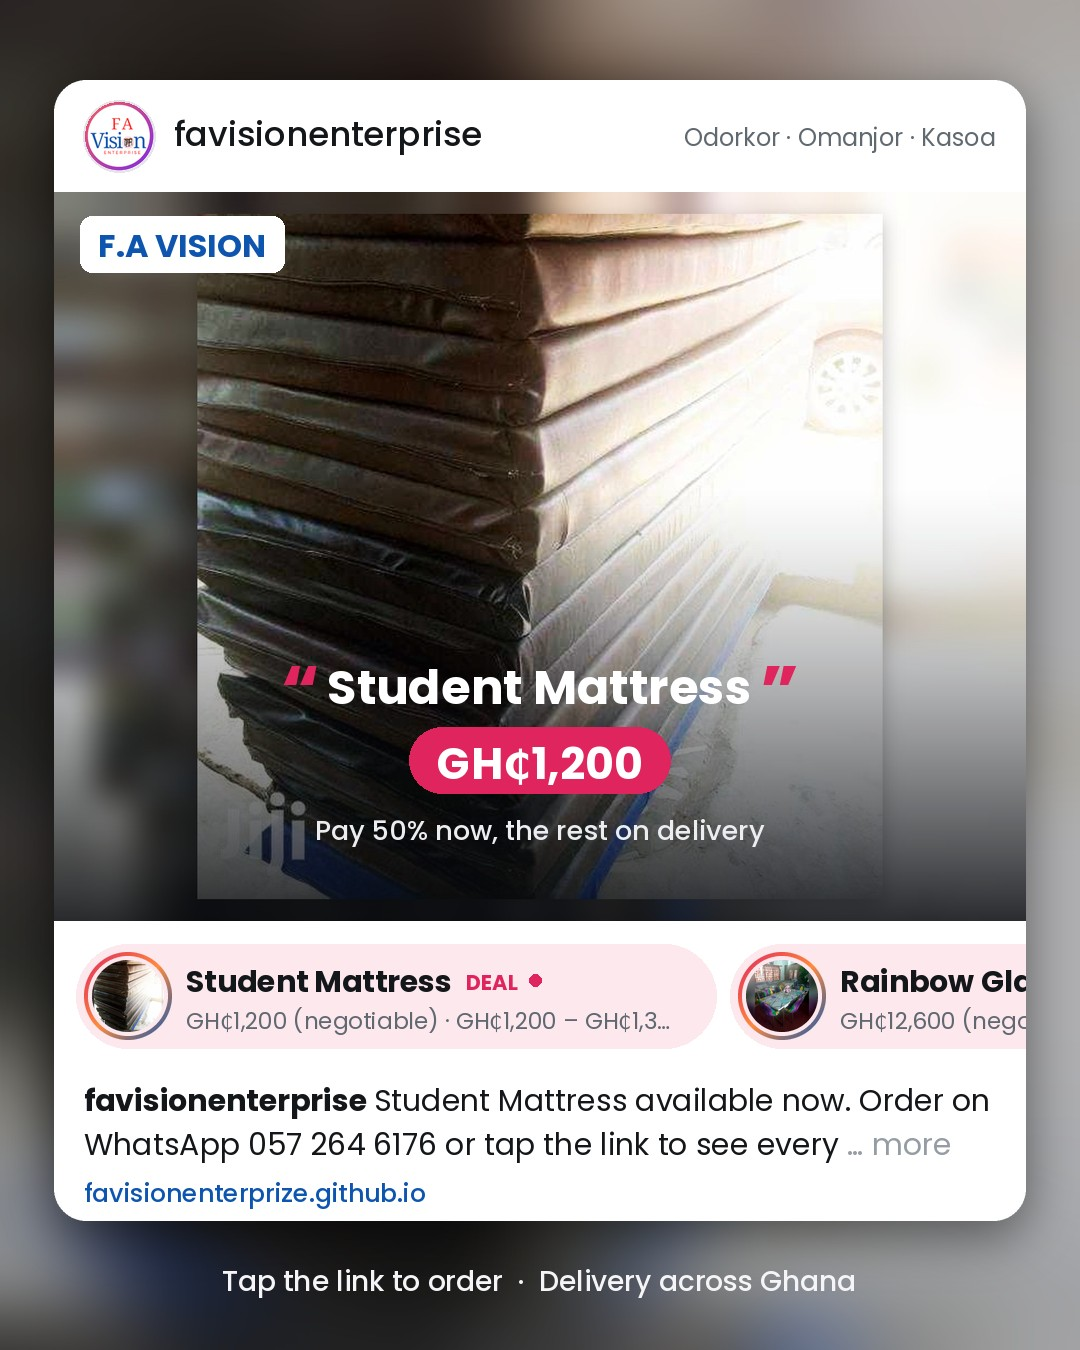
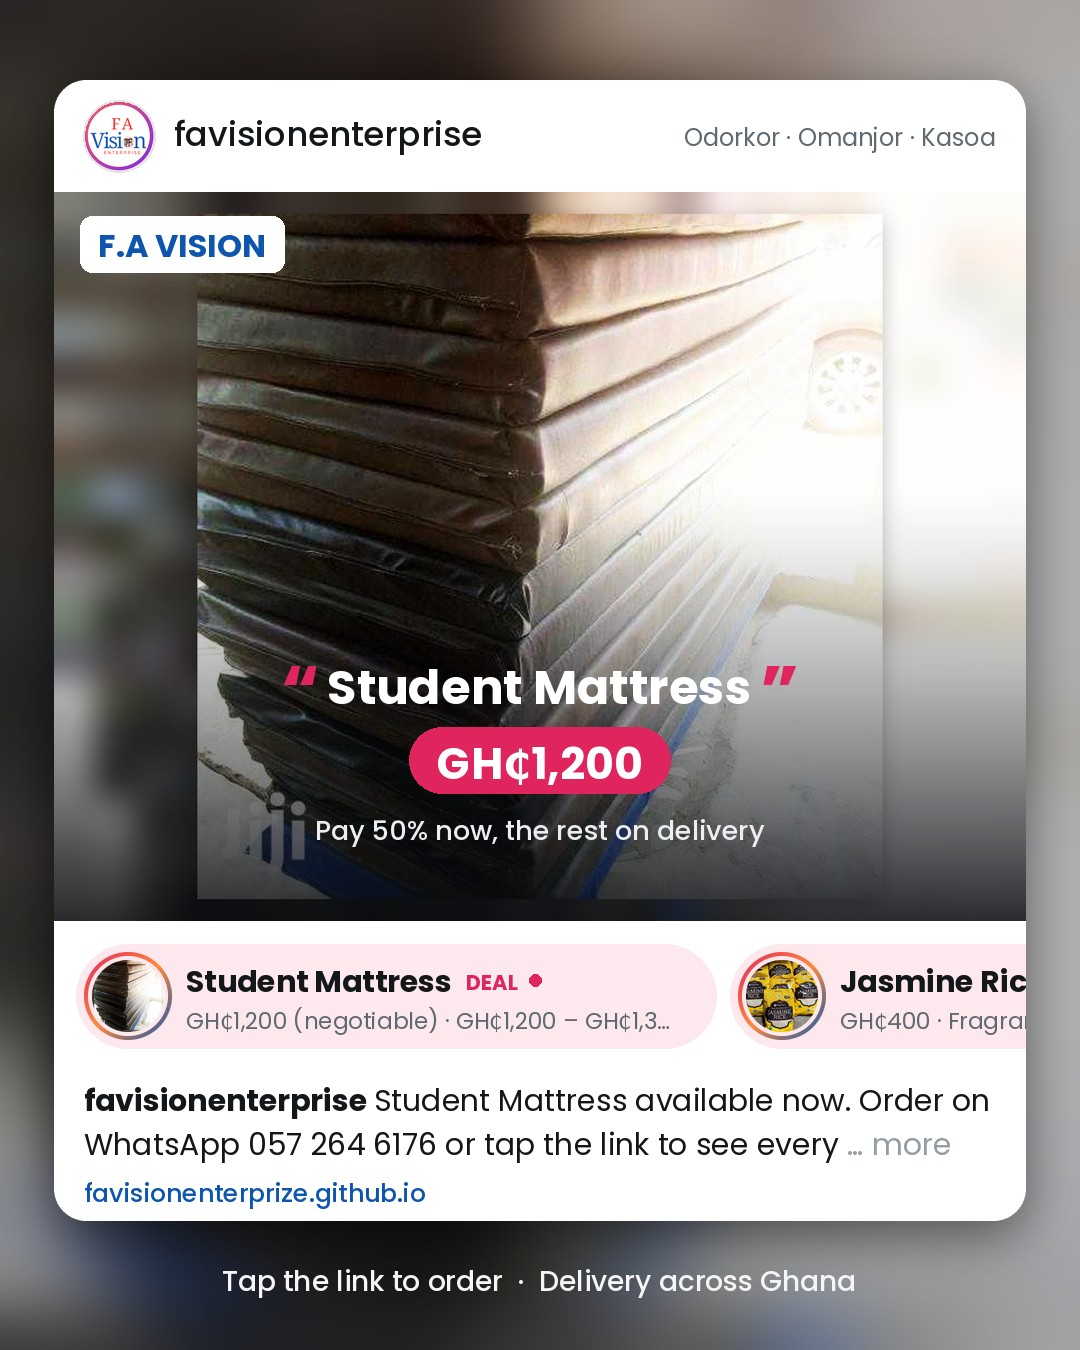
Rebuild ads and listing texts after a price or promo change

Changed region(s): [[0.6722, 0.6844, 0.9472, 0.7778]]

diff --git a/p/FAV-034.html b/p/FAV-034.html
@@ -8,15 +8,15 @@
 <meta property="og:title" content="Student Mattress · GH₵1,200">
 <meta property="og:description" content="GH₵1,200 – GH₵1,300 by size · Ideal for boarding schools &amp; hostels">
 <meta property="og:url" content="https://favisionenterprize.github.io/p/FAV-034.html">
-<meta property="og:image" content="https://favisionenterprize.github.io/assets/images/share/fav-034.jpg?v=4bab2631">
+<meta property="og:image" content="https://favisionenterprize.github.io/assets/images/share/fav-034.jpg?v=394ba472">
 <meta property="og:image:width" content="1080">
 <meta property="og:image:height" content="1350">
 <meta name="twitter:card" content="summary_large_image">
 <meta name="twitter:title" content="Student Mattress · GH₵1,200">
 <meta name="twitter:description" content="GH₵1,200 – GH₵1,300 by size · Ideal for boarding schools &amp; hostels">
-<meta name="twitter:image" content="https://favisionenterprize.github.io/assets/images/share/fav-034.jpg?v=4bab2631">
+<meta name="twitter:image" content="https://favisionenterprize.github.io/assets/images/share/fav-034.jpg?v=394ba472">
 <link rel="canonical" href="https://favisionenterprize.github.io/#product/FAV-034">
 <meta http-equiv="refresh" content="0; url=https://favisionenterprize.github.io/#product/FAV-034">
 <style>body{margin:0;font:16px system-ui,sans-serif;background:#111;color:#fff;display:grid;place-items:center;min-height:100vh;text-align:center}img{max-width:min(92vw,540px);border-radius:16px}a{color:#fff}</style>
-</head><body><div><img src="https://favisionenterprize.github.io/assets/images/share/fav-034.jpg?v=4bab2631" alt="Student Mattress · GH₵1,200"><p><a href="https://favisionenterprize.github.io/#product/FAV-034">Open Student Mattress · GH₵1,200 →</a></p></div>
+</head><body><div><img src="https://favisionenterprize.github.io/assets/images/share/fav-034.jpg?v=394ba472" alt="Student Mattress · GH₵1,200"><p><a href="https://favisionenterprize.github.io/#product/FAV-034">Open Student Mattress · GH₵1,200 →</a></p></div>
 <script>location.replace("https://favisionenterprize.github.io/#product/FAV-034");</script></body></html>

diff --git a/p/FAV-035.html b/p/FAV-035.html
@@ -1,0 +1,22 @@
+<!doctype html>
+<html lang="en"><head><meta charset="utf-8">
+<title>Jasmine Rice · GH₵400 | F.A Vision Enterprise</title>
+<meta name="viewport" content="width=device-width, initial-scale=1">
+<meta name="description" content="Fragrant long-grain Thai Hom Mali rice · 25 lb bags">
+<meta property="og:type" content="product">
+<meta property="og:site_name" content="F.A Vision Enterprise">
+<meta property="og:title" content="Jasmine Rice · GH₵400">
+<meta property="og:description" content="Fragrant long-grain Thai Hom Mali rice · 25 lb bags">
+<meta property="og:url" content="https://favisionenterprize.github.io/p/FAV-035.html">
+<meta property="og:image" content="https://favisionenterprize.github.io/assets/images/share/fav-035.jpg?v=ecc4cf34">
+<meta property="og:image:width" content="1080">
+<meta property="og:image:height" content="1350">
+<meta name="twitter:card" content="summary_large_image">
+<meta name="twitter:title" content="Jasmine Rice · GH₵400">
+<meta name="twitter:description" content="Fragrant long-grain Thai Hom Mali rice · 25 lb bags">
+<meta name="twitter:image" content="https://favisionenterprize.github.io/assets/images/share/fav-035.jpg?v=ecc4cf34">
+<link rel="canonical" href="https://favisionenterprize.github.io/#product/FAV-035">
+<meta http-equiv="refresh" content="0; url=https://favisionenterprize.github.io/#product/FAV-035">
+<style>body{margin:0;font:16px system-ui,sans-serif;background:#111;color:#fff;display:grid;place-items:center;min-height:100vh;text-align:center}img{max-width:min(92vw,540px);border-radius:16px}a{color:#fff}</style>
+</head><body><div><img src="https://favisionenterprize.github.io/assets/images/share/fav-035.jpg?v=ecc4cf34" alt="Jasmine Rice · GH₵400"><p><a href="https://favisionenterprize.github.io/#product/FAV-035">Open Jasmine Rice · GH₵400 →</a></p></div>
+<script>location.replace("https://favisionenterprize.github.io/#product/FAV-035");</script></body></html>

diff --git a/assets/js/products-data.js b/assets/js/products-data.js
@@ -2039,6 +2039,40 @@ window.FAV_DATA = {
       "images": [
         "assets/images/products/fav-034-mv00kf41-1.jpg"
       ]
+    },
+    {
+      "id": "FAV-035",
+      "name": "Jasmine Rice — Long Grain Fragrant Rice",
+      "category": "Groceries",
+      "type": "Rice",
+      "marketplace_category": "Groceries",
+      "price_ghs": 400,
+      "negotiable": false,
+      "icon": "🍚",
+      "description": "Natural, fragrant long-grain jasmine rice (Thai Hom Mali) with a sweet aroma. 25 lb bags. Wholesale and retail. Sold by MANYE OYE REHOBOTH store, Kasoa, near Amanfrom Taxi Rank.",
+      "condition": "Brand New",
+      "custom_order": false,
+      "in_stock": true,
+      "images": [
+        "assets/images/products/fav-035-1.jpg",
+        "assets/images/products/fav-035-2.jpg"
+      ],
+      "highlights": [
+        "Fragrant long-grain Thai Hom Mali rice",
+        "25 lb bags",
+        "Wholesale and retail",
+        "Kasoa, near Amanfrom Taxi Rank"
+      ],
+      "placeholder": false,
+      "seller": {
+        "name": "MANYE OYE REHOBOTH",
+        "phones": [
+          "+233535700722"
+        ],
+        "whatsapp": "+233535700722",
+        "address": "Kasoa, near Amanfrom Taxi Rank",
+        "note": "Sold and delivered by MANYE OYE REHOBOTH (a partner business). Contact them directly to order."
+      }
     }
   ]
 };

diff --git a/output/listings.md b/output/listings.md
@@ -1,6 +1,6 @@
 # F.A Vision Enterprise: ready-to-paste listings
 
-Generated 2026-10-08. Regenerate after editing `data/products.json`.
+Generated 2026-10-09. Regenerate after editing `data/products.json`.
 
 ## FAV-001 · Rainbow Glass-Top Dining Set — 6 Chairs
 
@@ -2460,4 +2460,80 @@ DM or call 057 264 6176 #FAVisionEnterprise #FurnitureGhana #AccraFurniture #Who
 Student Mattress — 2 Sizes 🔥
 GH₵ 1,200
 Order: https://wa.me/233572646176?text=Hello%20F.A%20Vision%2C%20I%27m%20interested%20in%20the%20Student%20Mattress%20%E2%80%94%202%20Sizes%20%28FAV-034%29.
+```
+
+## FAV-035 · Jasmine Rice — Long Grain Fragrant Rice
+
+> Partner product: sold by MANYE OYE REHOBOTH. Their contacts are used below.
+
+### Facebook Marketplace
+
+- **Title:** Jasmine Rice — Long Grain Fragrant Rice
+- **Price:** 400
+- **Category:** Groceries
+- **Condition:** Brand New
+- **Location:** Odorkor, Accra
+- **Photos:** assets/images/products/fav-035-1.jpg, assets/images/products/fav-035-2.jpg
+
+**Description:**
+
+```
+Jasmine Rice — Long Grain Fragrant Rice by MANYE OYE REHOBOTH.
+
+Natural, fragrant long-grain jasmine rice (Thai Hom Mali) with a sweet aroma. 25 lb bags. Wholesale and retail. Sold by MANYE OYE REHOBOTH store, Kasoa, near Amanfrom Taxi Rank.
+
+👉 See all photos, price and order online: https://favisionenterprize.github.io/#product/FAV-035
+
+✔ Fragrant long-grain Thai Hom Mali rice
+✔ 25 lb bags
+✔ Wholesale and retail
+✔ Kasoa, near Amanfrom Taxi Rank
+
+
+🚚 Contact us for delivery.
+📍 Kasoa, near Amanfrom Taxi Rank
+📞 Call / WhatsApp: 053 570 0722
+🌐 https://favisionenterprize.github.io/
+Ref: FAV-035
+```
+
+### Group posts (use a different variant in each group)
+
+**Variant 1**
+
+```
+🍚 Jasmine Rice — Long Grain Fragrant Rice available now!
+• Fragrant long-grain Thai Hom Mali rice
+• 25 lb bags
+• Wholesale and retail
+• Kasoa, near Amanfrom Taxi Rank
+💰 GH₵ 400
+📍 Kasoa, near Amanfrom Taxi Rank, delivery available
+📞 WhatsApp 053 570 0722
+#FAVisionEnterprise #FurnitureGhana #AccraFurniture #WholesaleFurnitureGhana
+```
+
+**Variant 2**
+
+```
+Looking for a quality jasmine rice — long grain fragrant rice? Fragrant long-grain Thai Hom Mali rice.
+Available at Kasoa, near Amanfrom Taxi Rank. GH₵ 400.
+Send us a message or WhatsApp 053 570 0722 to order. #FAVisionEnterprise #FurnitureGhana #AccraFurniture #WholesaleFurnitureGhana
+```
+
+**Variant 3**
+
+```
+NEW FROM MANYE OYE REHOBOTH ✨ Jasmine Rice — Long Grain Fragrant Rice
+GH₵ 400 | Ready for pickup
+Homes • Offices • Schools
+DM or call 053 570 0722 #FAVisionEnterprise #FurnitureGhana #AccraFurniture #WholesaleFurnitureGhana
+```
+
+### WhatsApp status
+
+```
+Jasmine Rice — Long Grain Fragrant Rice 🔥
+GH₵ 400
+Order: https://wa.me/233535700722?text=Hello%20MANYE%20OYE%20REHOBOTH%2C%20I%27m%20interested%20in%20the%20Jasmine%20Rice%20%E2%80%94%20Long%20Grain%20Fragrant%20Rice%20%28FAV-035%29.
 ```
